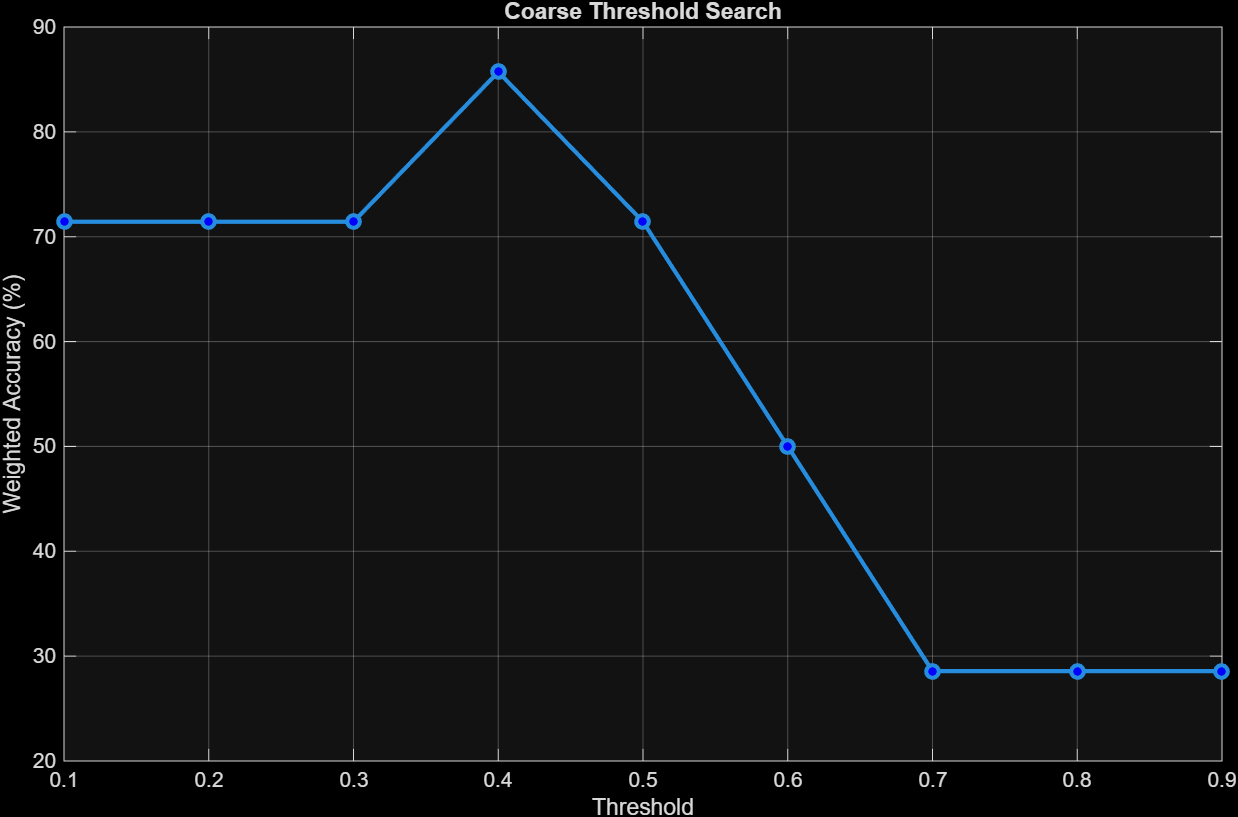
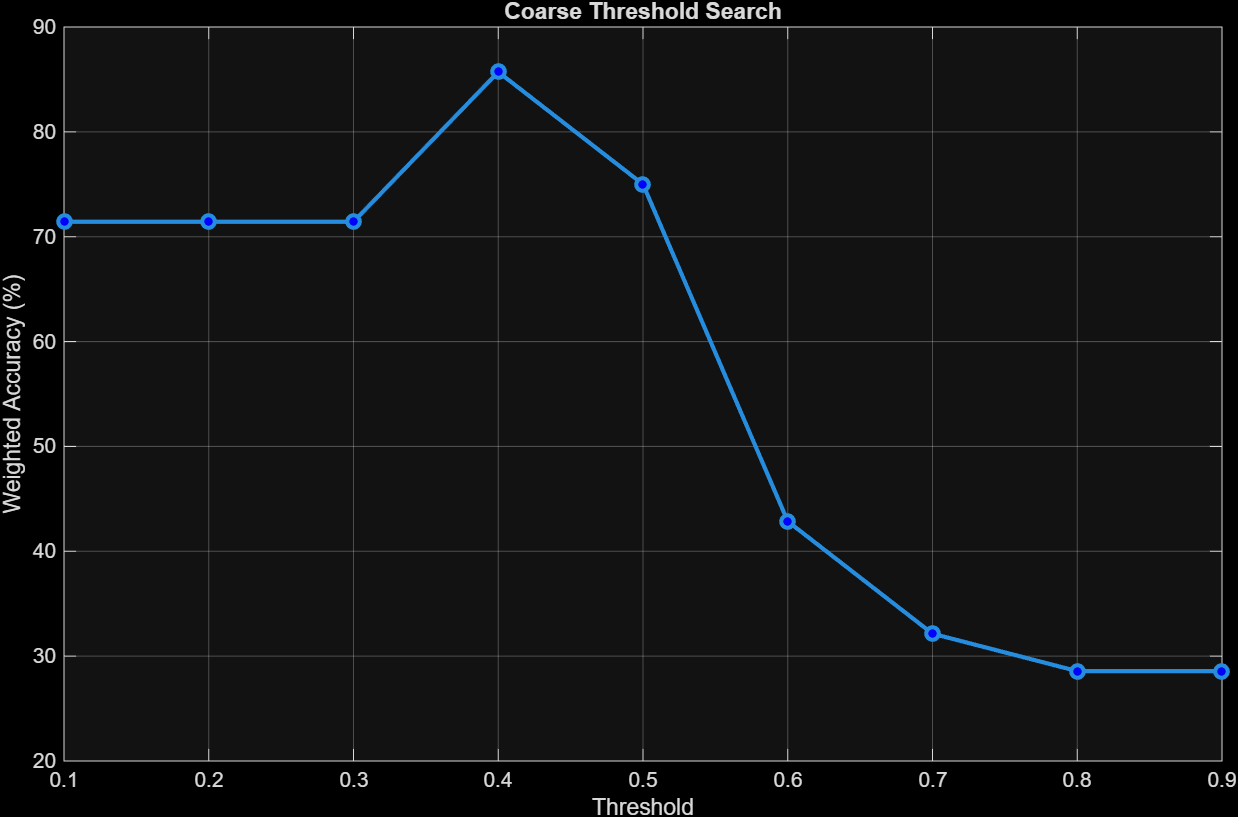
Improved validation

diff --git a/Scripts/validation.m b/Scripts/validation.m
@@ -24,22 +24,22 @@ for n = 1:10
 % --- Nominal ---
     % Validate classifier on nominal test set and store mean accuracy and std
     [nomAcc, nomStdVals] = validateModel(classifier, nomVal);
-    nominalAvg(n) = mean(nomAcc)
+    nominalAvg(n) = mean(nomAcc);
     nominalStdArr(n) = mean(nomStdVals);
 
 % --- Intruder ---
     % Validate classifier on intruder set and store mean accuracy and std
     [intAcc, intStdVals] = validateModel(classifier, intVal);
-    intruderAvg(n) = mean(intAcc)
+    intruderAvg(n) = mean(intAcc);
     intruderStdArr(n) = mean(intStdVals);
 
 % --- Compute gap ---
     % Larger gap means the classifier better separates nominal from intruder
-    gap = abs(nominalAvg(n) - intruderAvg(n))
+    gap = abs(nominalAvg(n) - intruderAvg(n));
 
 % --- Average std ---
     % Average spread across both sets; lower is more consistent
-    avgStd = (nominalStdArr(n) + intruderStdArr(n)) / 2
+    avgStd = (nominalStdArr(n) + intruderStdArr(n)) / 2;
 
 % --- Final score ---
     % Reward separation, penalize variance
@@ -93,23 +93,16 @@ title('Coarse Threshold Search');
 grid on;
 
 % --- STEP 2: Find the best two points ---
-% Sort thresholds by accuracy and pick the top two for fine search bounds
+% Sort thresholds by accuracy and pick the top threshold for fine search
 [~, idx] = sort(accuracies, 'descend');
-t1 = thresholds(idx(1));
-t2 = thresholds(idx(2));
+t = thresholds(idx(1));
 
-% Ensure t1 is the lower bound and t2 is the upper bound
-if(t1>t2)
-    hold = t2;
-    t2=t1;
-    t1=hold;
-end
 
-fprintf('\nRefining between %.2f and %.2f\n', t1, t2);
+fprintf('\nRefining between %.2f and %.2f\n', t-0.1, t+0.1);
 
 % --- STEP 3: Fine search ---
-% Search 20 evenly spaced thresholds between the two best coarse values
-fineThresholds = linspace(t1, t2+0.1, 20);
+% Search 20 evenly spaced thresholds close to the best coarse value
+fineThresholds = linspace(t-0.1, t+0.1, 20);
 
 for i = 1:length(fineThresholds)
     [nomAcc, ~] = testModel(classifier, nomVal, "Nominal", fineThresholds(i));

diff --git a/Scripts/main.m b/Scripts/main.m
@@ -8,7 +8,7 @@ function main
     [nomTrainFeatures, nomTrainLabels]  = extractFeatures(nomTrain);
 
     %% Validation
-    [classifier, bestThreshold] = validation(nomTrainFeatures, nomTrainLabels, nomTest, intVal);
+    [classifier, bestThreshold] = validation(nomTrainFeatures, nomTrainLabels, nomVal, intVal);
 
     %% Test model
     [nomAccuracy, nomCount]= testModel(classifier, nomTest, 'Nominal',bestThreshold);
